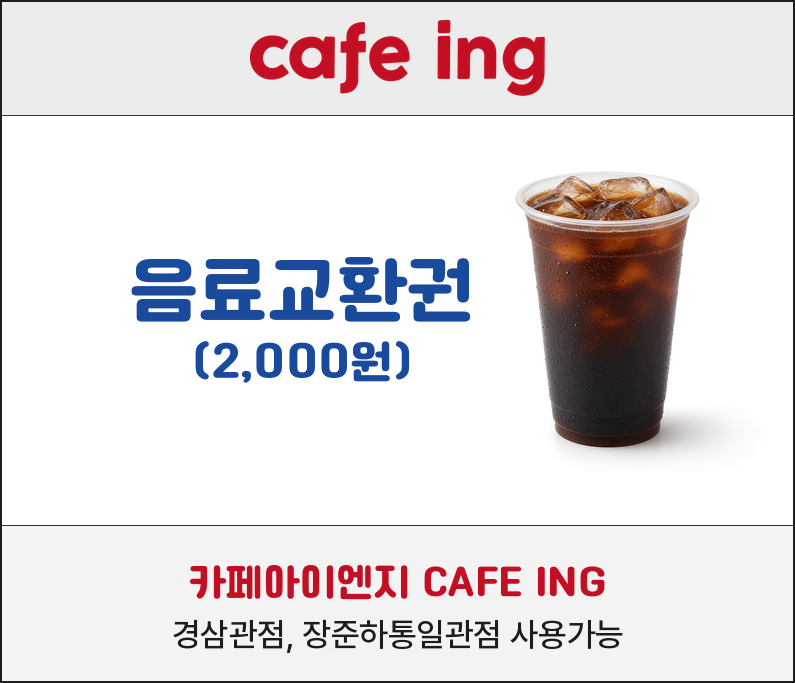
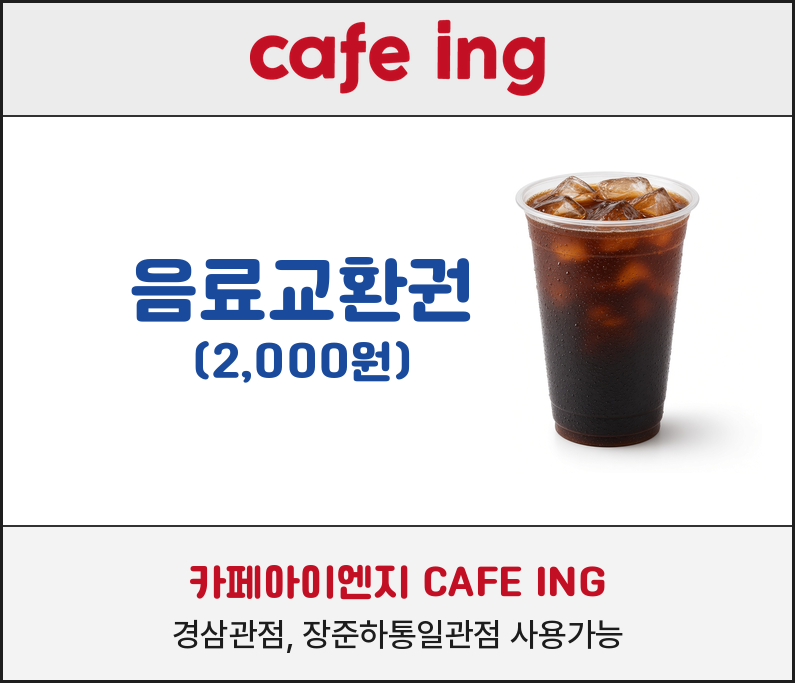
Restore coupon cut lines covered by header and footer fills.
Draw section fills first, then stroke header/footer dividers and the full 3-by-5 grid so every coupon has visible edges.

Changed region(s): [[0.9962, 0.0, 1.0, 1.0], [0.0, 0.9839, 0.0302, 1.0]]

diff --git a/cafe-ing-coupon/index.html b/cafe-ing-coupon/index.html
@@ -54,7 +54,7 @@
     .coupon {
       width: 67.33333333333333mm;
       height: 57.8mm;
-      border: 0.35pt solid #1e1e1e;
+      border: 0.75pt solid #1e1e1e;
       display: flex;
       flex-direction: column;
       background: #fff;
@@ -63,7 +63,7 @@
     .header {
       height: 9.761777777777777mm;
       background: #ececec;
-      border-bottom: 0.35pt solid #323232;
+      border-bottom: 0.6pt solid #323232;
       display: flex;
       align-items: center;
       justify-content: center;
@@ -112,7 +112,7 @@
     .footer {
       height: 13.35822222222222mm;
       background: #f3f3f3;
-      border-top: 0.35pt solid #323232;
+      border-top: 0.6pt solid #323232;
       display: flex;
       flex-direction: column;
       align-items: center;

diff --git a/cafe-ing-coupon/generate.py b/cafe-ing-coupon/generate.py
@@ -90,24 +90,13 @@ def draw_coupon_pdf(c: canvas.Canvas, x: float, y: float, drink: ImageReader, lo
         return tuple(channel / 255 for channel in color)
 
     c.saveState()
-    c.setStrokeColorRGB(*rgb(BORDER))
-    c.setLineWidth(0.45)
-    c.rect(x, y, w, h, stroke=1, fill=0)
 
-    # header
+    # header / footer fills first so they cannot cover cut lines
     c.setFillColorRGB(*rgb(HEADER_BG))
     c.rect(x, y + h - header_h, w, header_h, stroke=0, fill=1)
-    c.setStrokeColorRGB(*rgb(LINE))
-    c.setLineWidth(0.35)
-    c.line(x, y + h - header_h, x + w, y + h - header_h)
-    draw_logo_pdf(c, logo, x, y + h - header_h, w, header_h)
-
-    # footer
     c.setFillColorRGB(*rgb(FOOTER_BG))
     c.rect(x, y, w, footer_h, stroke=0, fill=1)
-    c.setStrokeColorRGB(*rgb(LINE))
-    c.setLineWidth(0.35)
-    c.line(x, y + footer_h, x + w, y + footer_h)
+    draw_logo_pdf(c, logo, x, y + h - header_h, w, header_h)
 
     c.setFillColorRGB(*rgb(RED))
     c.setFont("Display", BRAND_PT)
@@ -155,6 +144,15 @@ def draw_coupon_pdf(c: canvas.Canvas, x: float, y: float, drink: ImageReader, lo
         preserveAspectRatio=True,
     )
 
+    # strokes last: header/footer dividers + full coupon cut line
+    c.setStrokeColorRGB(*rgb(LINE))
+    c.setLineWidth(0.6)
+    c.line(x, y + h - header_h, x + w, y + h - header_h)
+    c.line(x, y + footer_h, x + w, y + footer_h)
+    c.setStrokeColorRGB(*rgb(BORDER))
+    c.setLineWidth(0.75)
+    c.rect(x, y, w, h, stroke=1, fill=0)
+
     c.restoreState()
 
 
@@ -179,6 +177,20 @@ def build_pdf(drink_path: Path, logo_path: Path, pdf_path: Path, paths: dict[str
             y = (bottom + (ROWS - 1 - row) * COUPON_H_MM) * mm
             draw_coupon_pdf(c, x, y, drink, logo)
 
+    # redraw the full cut grid so shared edges stay visible
+    c.setStrokeColorRGB(30 / 255, 30 / 255, 30 / 255)
+    c.setLineWidth(0.75)
+    grid_x = left * mm
+    grid_y = bottom * mm
+    cell_w = COUPON_W_MM * mm
+    cell_h = COUPON_H_MM * mm
+    for col in range(COLS + 1):
+        x = grid_x + col * cell_w
+        c.line(x, grid_y, x, grid_y + ROWS * cell_h)
+    for row in range(ROWS + 1):
+        y = grid_y + row * cell_h
+        c.line(grid_x, y, grid_x + COLS * cell_w, y)
+
     c.save()
 
 
@@ -199,9 +211,6 @@ def render_coupon_png(
 
     d.rectangle((0, 0, w - 1, header_h - 1), fill=HEADER_BG)
     d.rectangle((0, h - footer_h, w - 1, h - 1), fill=FOOTER_BG)
-    d.line((0, header_h, w, header_h), fill=LINE, width=max(1, mm_to_px(0.12, dpi)))
-    d.line((0, h - footer_h, w, h - footer_h), fill=LINE, width=max(1, mm_to_px(0.12, dpi)))
-    d.rectangle((0, 0, w - 1, h - 1), outline=BORDER, width=max(2, mm_to_px(0.16, dpi)))
 
     display_title = pil_font(paths["display"], TITLE_PT, dpi)
     display_price = pil_font(paths["display"], PRICE_PT, dpi)
@@ -257,6 +266,13 @@ def render_coupon_png(
 
     center_text(BRAND_KO, display_brand, h - footer_h + footer_h * 0.36, RED)
     center_text(PLACE_LINE, body_place, h - footer_h + footer_h * 0.70, INK)
+
+    divider_w = max(2, mm_to_px(0.18, dpi))
+    border_w = max(3, mm_to_px(0.22, dpi))
+    inset = border_w // 2
+    d.line((0, header_h, w, header_h), fill=LINE, width=divider_w)
+    d.line((0, h - footer_h, w, h - footer_h), fill=LINE, width=divider_w)
+    d.rectangle((inset, inset, w - 1 - inset, h - 1 - inset), outline=BORDER, width=border_w)
     return img
 
 
@@ -330,7 +346,7 @@ def write_html(html_path: Path) -> None:
     .coupon {{
       width: {COUPON_W_MM}mm;
       height: {COUPON_H_MM}mm;
-      border: 0.35pt solid #1e1e1e;
+      border: 0.75pt solid #1e1e1e;
       display: flex;
       flex-direction: column;
       background: #fff;
@@ -339,7 +355,7 @@ def write_html(html_path: Path) -> None:
     .header {{
       height: {HEADER_H_MM}mm;
       background: #ececec;
-      border-bottom: 0.35pt solid #323232;
+      border-bottom: 0.6pt solid #323232;
       display: flex;
       align-items: center;
       justify-content: center;
@@ -388,7 +404,7 @@ def write_html(html_path: Path) -> None:
     .footer {{
       height: {FOOTER_H_MM}mm;
       background: #f3f3f3;
-      border-top: 0.35pt solid #323232;
+      border-top: 0.6pt solid #323232;
       display: flex;
       flex-direction: column;
       align-items: center;
